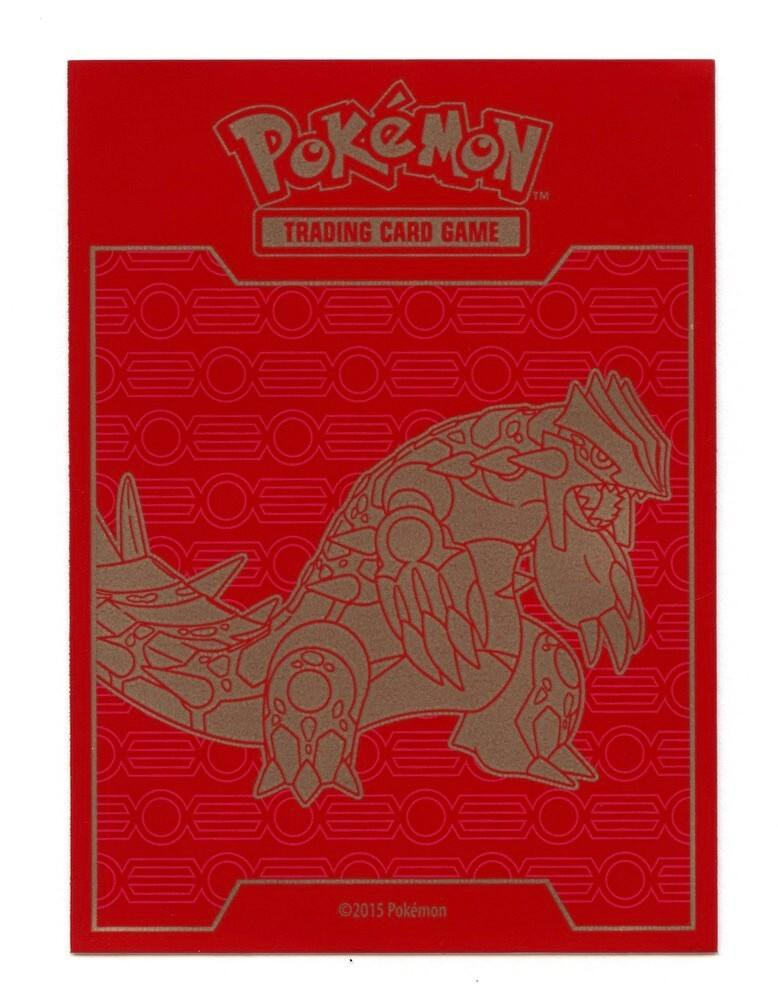
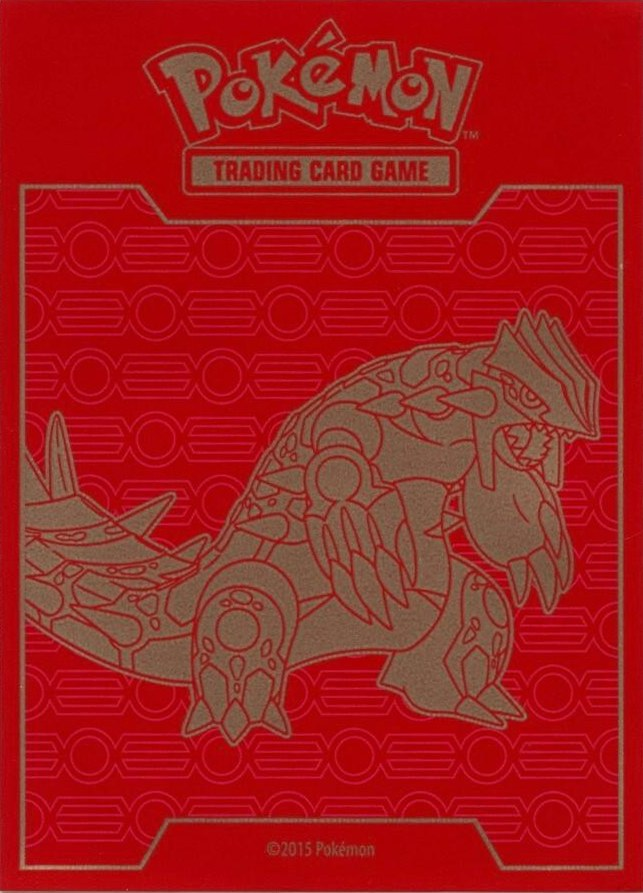
fix(sleeves): straighten and crop the Primal Groudon sleeve scan
The scan was slightly crooked. Deskewed 0.13 degrees from the original
(fitted to the sleeve outline), then cropped 2px inside the edge:
778x992 -> 643x893. No white margins; the printed frame is now parallel
to the edges within 1px.

diff --git a/.agent/journal/2026-09.md b/.agent/journal/2026-09.md
@@ -1481,3 +1481,5 @@ S136 2026-09-15 feature(holo): TCG Live-style holofoil (design 010, D34). Fixed 
   Merged as PR #130 (9729902). Primary checkout's stray uncommitted holo edits saved to branch wip/primary-holo-edits (424c314).
 S136b 2026-09-15 patch(sleeves): cropped white scan margins off Primal_Kyogre_ETB_Sleeve.jpg (909x1160 → 778x1078, 3px inside the
   blue edge, no skew). Pushed straight to main at user's request (no PR).
+  Same for Primal_Groudon_ETB_Sleeve.jpg: scan was crooked, so deskewed 0.13° from the original (minAreaRect of the sleeve
+  outline), then cropped 2px inside the edge → 643x893; printed frame now parallel to the edges (±1px). Pushed to main, no PR.

diff --git a/.agent/STATE.md b/.agent/STATE.md
@@ -40,6 +40,6 @@ Blocked: none.
 
 ## Recently shipped (≤3 one-liners; anything older lives in the journal)
 - S136 2026-09-15 feature: TCG Live-style holofoil (fixed light, ink mask) — PR #130, merged 9729902.
-  + patch: Primal Kyogre sleeve cropped (no white margins), pushed to main directly.
+  + patch: Primal Kyogre + Groudon sleeves cropped (no white margins), pushed to main directly.
 - S135 2026-09-15 feature: ability-guidance accuracy + Mega/Primal Spirit Link turn-end rule.
 - S134 2026-09-15 feature: CSV deck export/import now carries sleeve+coin. Pushed 3883471.
